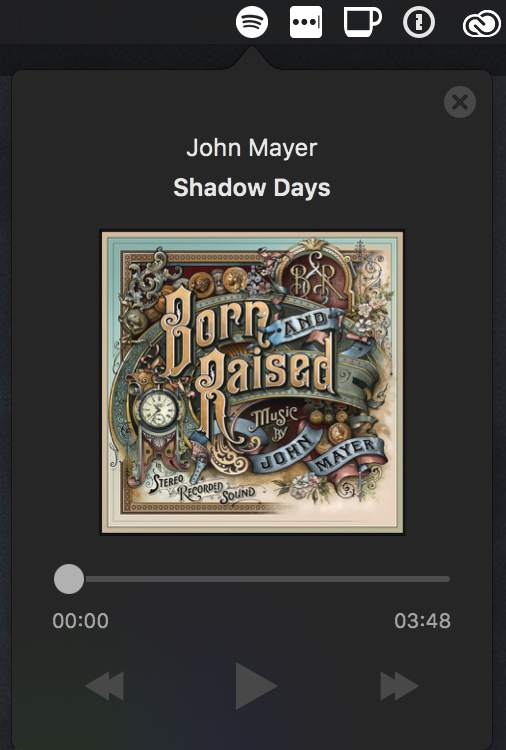
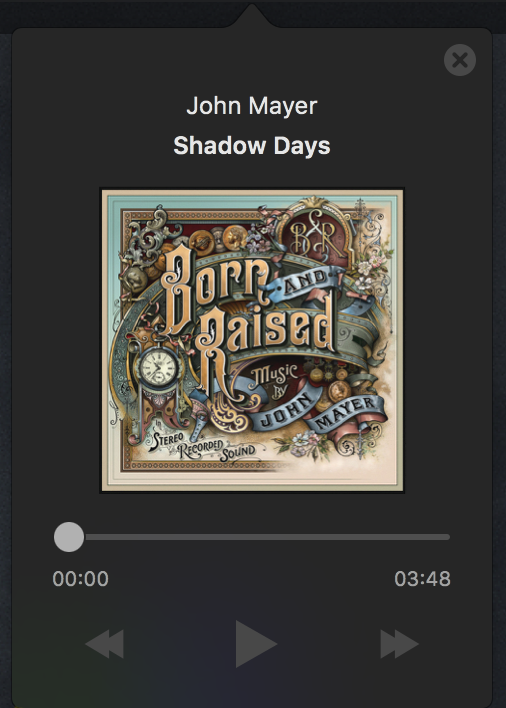
Update README

diff --git a/README.md b/README.md
@@ -3,6 +3,8 @@ Spotify in your menu bar
 
 About
 -----
-![demo](https://github.com/andreamazz/SpotMenu/blob/master/demo.png)
+<p align="center">
+  <img width="250" src="demo.png"/>
+</p>
 
 [SpotMenu](https://github.com/kmikiy/SpotMenu) is made by [kmikiy](https://github.com/kmikiy), this fork changes the layout.
